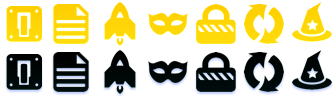
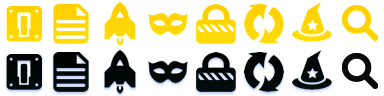
style new search UI

diff --git a/LCARStrek/browser/searchbar.css b/LCARStrek/browser/searchbar.css
@@ -82,3 +82,172 @@
 .searchbar-engine-menuitem[selected="true"] > .menu-iconic-text {
   font-weight: bold;
 }
+
+
+.searchbar-search-button-container {
+  -moz-box-align: center;
+  padding: 3px 4px;
+  -moz-padding-end: 2px;
+}
+
+.searchbar-search-button {
+  list-style-image: url("chrome://browser/skin/search-indicator.png");
+  -moz-image-region: rect(0, 20px, 20px, 0);
+  margin: -2px -2px;
+}
+
+.searchbar-search-button:hover,
+.searchbar-search-button:hover:active {
+  -moz-image-region: rect(0, 40px, 20px, 20px);
+}
+
+searchbar[oneoffui] .search-go-button {
+  list-style-image: url("chrome://browser/skin/reload-stop-go.png");
+  -moz-image-region: rect(0, 42px, 14px, 28px);
+}
+
+searchbar[oneoffui] .search-go-button:hover {
+  -moz-image-region: rect(14px, 42px, 28px, 28px);
+}
+
+searchbar[oneoffui] .search-go-button:hover:active {
+  -moz-image-region: rect(28px, 42px, 42px, 28px);
+}
+
+searchbar[oneoffui] .search-go-button:-moz-locale-dir(rtl) > .toolbarbutton-icon {
+  transform: scaleX(-1);
+}
+
+
+.search-panel-current-engine {
+  border-top: none !important;
+  border-bottom: 1px solid #9C9CFF;
+  -moz-box-align: center;
+}
+
+.search-panel-header {
+  font-weight: normal;
+  background-color: #A09090;
+  border-top: 1px solid #9C9CFF;
+  margin: 0;
+  padding: 3px 6px;
+  color: #000000;
+}
+
+.search-panel-current-input > label {
+  margin: 0 0 !important;
+}
+
+.search-panel-input-value {
+  color: black;
+}
+
+.search-panel-one-offs {
+  margin: 0 0 !important;
+  border-top: 1px solid #9C9CFF;
+}
+
+.searchbar-engine-one-off-item {
+  -moz-appearance: none;
+  display: inline-block;
+  border: none;
+  min-width: 48px;
+  height: 32px;
+  margin: 0 0;
+  padding: 0 0;
+  background: none;
+  background-image: url('chrome://browser/skin/search-oneoff-bg-border.png');
+  background-repeat: no-repeat;
+  background-position: right center;
+}
+
+.searchbar-engine-one-off-item:not(.last-row) {
+  box-sizing: padding-box;
+  border-bottom: 1px solid #9C9CFF;
+}
+
+.searchbar-engine-one-off-item.last-of-row {
+  background-image: none;
+}
+
+.searchbar-engine-one-off-item:hover:not(.dummy),
+.searchbar-engine-one-off-item[selected] {
+  background-color: #008484;
+  background-image: none;
+}
+
+.searchbar-engine-one-off-item > .button-box {
+  border: none;
+  padding: 0 0;
+}
+
+.searchbar-engine-one-off-item > .button-box > .button-text {
+  display: none;
+}
+
+.searchbar-engine-one-off-item > .button-box > .button-icon {
+  width: 16px;
+  height: 16px;
+}
+ 
+.addengine-item {
+  -moz-appearance: none;
+  border: none;
+  height: 32px;
+  margin: 0 0;
+  padding: 0 10px;
+}
+
+.addengine-item > .button-box {
+  -moz-box-pack: start;
+}
+
+.addengine-item:first-of-type {
+  border-top: 1px solid #9C9CFF;
+}
+
+.addengine-item:hover {
+  background-color: #FFCF00;
+  color: #000000;
+}
+
+.addengine-item > .button-box > .button-icon {
+  width: 16px;
+}
+
+.addengine-item > .button-box > .button-text {
+  -moz-box-flex: 1;
+  text-align: start;
+  -moz-padding-start: 10px;
+}
+
+.addengine-item:not([image]) {
+  list-style-image: url("chrome://browser/skin/search-engine-placeholder.png");
+}
+
+searchbar[oneoffui] .searchbar-engine-button {
+  display: none;
+}
+
+.search-panel-tree > .autocomplete-treebody::-moz-tree-cell {
+  -moz-padding-start: 15px;
+  border-top: none !important;
+}
+
+searchbar[oneoffui] .searchbar-engine-image {
+  -moz-margin-start: -1px;
+}
+
+.search-setting-button {
+  -moz-appearance: none;
+  border-bottom: none;
+  border-left: none;
+  border-right: none;
+  -moz-border-top-colors: none;
+  min-height: 32px;
+}
+
+.search-setting-button:hover {
+  background-color: #FFCF00;
+  border-top-color: #9C9CFF;
+}

diff --git a/LCARStrek/browser/preferences/in-content/preferences.css b/LCARStrek/browser/preferences/in-content/preferences.css
@@ -98,6 +98,15 @@ prefpane {
   -moz-image-region: rect(24px, 24px, 48px, 0);
 }
 
+#category-search > .category-icon {
+  -moz-image-region: rect(0, 194px, 24px, 168px);
+}
+
+#category-search:hover > .category-icon,
+#category-search[selected] > .category-icon {
+  -moz-image-region: rect(24px, 194px, 48px, 168px);
+}
+
 #category-content > .category-icon {
   -moz-image-region: rect(0, 48px,  24px, 24px)
 }
@@ -419,14 +428,25 @@ caption {
     -moz-image-region: rect(0, 48px, 48px, 0);
   }
 
+  #category-general:hover > .category-icon,
   #category-general[selected] > .category-icon {
     -moz-image-region: rect(48px, 48px, 96px, 0);
+  }
+
+  #category-search > .category-icon {
+    -moz-image-region: rect(0, 384px, 48px, 336px);
+  }
+
+  #category-search:hover > .category-icon,
+  #category-search[selected] > .category-icon {
+    -moz-image-region: rect(48, 384px, 96px, 336px);
   }
 
   #category-content > .category-icon {
     -moz-image-region: rect(0, 96px, 48px, 48px);
   }
 
+  #category-content:hover > .category-icon,
   #category-content[selected] > .category-icon {
     -moz-image-region: rect(48px, 96px, 96px, 48px);
   }
@@ -435,6 +455,7 @@ caption {
     -moz-image-region: rect(0, 144px, 48px, 96px);
   }
 
+  #category-application:hover > .category-icon,
   #category-application[selected] > .category-icon {
     -moz-image-region: rect(48px, 144px, 96px, 96px);
   }
@@ -443,6 +464,7 @@ caption {
     -moz-image-region: rect(0, 192px, 48px, 144px);
   }
 
+  #category-privacy:hover > .category-icon,
   #category-privacy[selected] > .category-icon {
     -moz-image-region: rect(48px, 192px, 96px, 144px);
   }
@@ -451,6 +473,7 @@ caption {
     -moz-image-region: rect(0, 240px, 48px, 192px);
   }
 
+  #category-security:hover > .category-icon,
   #category-security[selected] > .category-icon {
     -moz-image-region: rect(48px, 240px, 96px, 192px);
   }
@@ -459,6 +482,7 @@ caption {
     -moz-image-region: rect(0, 288px, 48px, 240px);
   }
 
+  #category-sync:hover > .category-icon,
   #category-sync[selected] > .category-icon {
     -moz-image-region: rect(48px, 288px, 96px, 240px);
   }
@@ -467,6 +491,7 @@ caption {
     -moz-image-region: rect(0, 336px, 48px, 288px);
   }
 
+  #category-advanced:hover > .category-icon,
   #category-advanced[selected] > .category-icon {
     -moz-image-region: rect(48px, 336px, 96px, 288px);
   }

diff --git a/LCARStrek/browser/browser.css b/LCARStrek/browser/browser.css
@@ -5493,6 +5493,54 @@ toolbarpaletteitem[place="toolbar"] {
   color: #000000;
 }
 
+.SearchHighlight {
+  -moz-margin-end: 6px;
+  font-size: 110%;
+  width: 225px;
+}
+
+.SearchHighlight label,
+.SearchHighlight description {
+  color: #008484;
+  margin: 0 0 8px 0;
+  padding: 0;
+}
+
+.SearchHighlightTitle {
+  font-weight: bold;
+}
+
+.SearchHighlight .dot {
+  width: 7px;
+  height: 7px;
+  background-image: -moz-image-rect(url("chrome://browser/skin/dots.png"), 0, 100%, 100%, 9);
+  background-size: 7px;
+  background-position: center center;
+  background-repeat: no-repeat;
+  -moz-margin-end: 2px;
+}
+
+.SearchHighlight .dot.filled {
+  background-image: -moz-image-rect(url("chrome://browser/skin/dots.png"), 0, 7, 100%, 0);
+}
+
+.SearchHighlight button {
+  margin: 0;
+  /* On some platforms clicking the button will steal focus from the search box
+     causing the popup to close. */
+  -moz-user-focus: ignore;
+}
+
+@media not all and (max-resolution: 1dppx) {
+  .SearchHighlight .dot {
+    background-image: -moz-image-rect(url("chrome://browser/skin/dots@2x.png"), 0, 100%, 100%, 18);
+  }
+
+  .SearchHighlight .dot.filled {
+    background-image: -moz-image-rect(url("chrome://browser/skin/dots@2x.png"), 0, 14, 100%, 0);
+  }
+}
+
 /* === END UITour.inc.css === */
 
 #UITourTooltipButtons {

diff --git a/EarlyBlue/global/in-content/common.css b/EarlyBlue/global/in-content/common.css
@@ -176,6 +176,10 @@ xul|menulist > xul|*.menulist-label-box {
   padding-left: 10px !important;
 }
 
+xul|menulist > xul|*.menulist-label-box > xul|*.menulist-icon {
+  -moz-margin-end: 5px;
+}
+
 xul|button[type="menu"] > xul|*.button-box > xul|*.button-menu-dropmarker {
   -moz-appearance: none;
   margin: 1px 0;
@@ -445,6 +449,10 @@ xul|*.checkbox-label-box {
     background-image: url("chrome://global/skin/in-content/check@2x.png"),
                       linear-gradient(#fff, rgba(255,255,255,0.8)) !important;
   }
+}
+
+xul|richlistitem > xul|*.checkbox-check {
+  margin: 3px 6px;
 }
 
 xul|*.radio-check {

diff --git a/LCARStrek/global/in-content/common.css b/LCARStrek/global/in-content/common.css
@@ -179,6 +179,10 @@ xul|menulist > xul|*.menulist-label-box {
   padding-left: 10px !important;
 }
 
+xul|menulist > xul|*.menulist-label-box > xul|*.menulist-icon {
+  -moz-margin-end: 5px;
+}
+
 xul|button[type="menu"] > xul|*.button-box > xul|*.button-menu-dropmarker {
   -moz-appearance: none;
   margin: 1px 0;
@@ -448,6 +452,10 @@ xul|*.checkbox-label-box {
     background-image: url("chrome://global/skin/in-content/check@2x.png"),
                       linear-gradient(#fff, rgba(255,255,255,0.8)) !important;
   }
+}
+
+xul|richlistitem > xul|*.checkbox-check {
+  margin: 3px 6px;
 }
 
 xul|*.radio-check {

diff --git a/LCARStrek/browser/preferences/preferences.css b/LCARStrek/browser/preferences/preferences.css
@@ -27,6 +27,14 @@ radio[pane=paneTabs]:not([selected="true"]):hover {
   -moz-image-region: rect(32px, 64px, 64px, 32px);
 }
 
+#BrowserPreferences radio[pane=paneSearch] {
+  list-style-image: url("chrome://browser/skin/search-pref.png");
+}
+
+#BrowserPreferences radio[pane=paneSearch]:not([selected="true"]):hover {
+  list-style-image: url("chrome://browser/skin/search-pref-hover.png");
+}
+
 radio[pane=paneContent] {
   -moz-image-region: rect(0, 96px,  32px, 64px);
 }

diff --git a/LCARStrek/browser/newtab/newTab.css b/LCARStrek/browser/newtab/newTab.css
@@ -145,7 +145,7 @@
 }
 
 /* TITLES */
-#newtab-intro-what,
+/*#newtab-intro-what,*/
 .newtab-sponsored,
 .newtab-title {
   padding: 0 8px;
